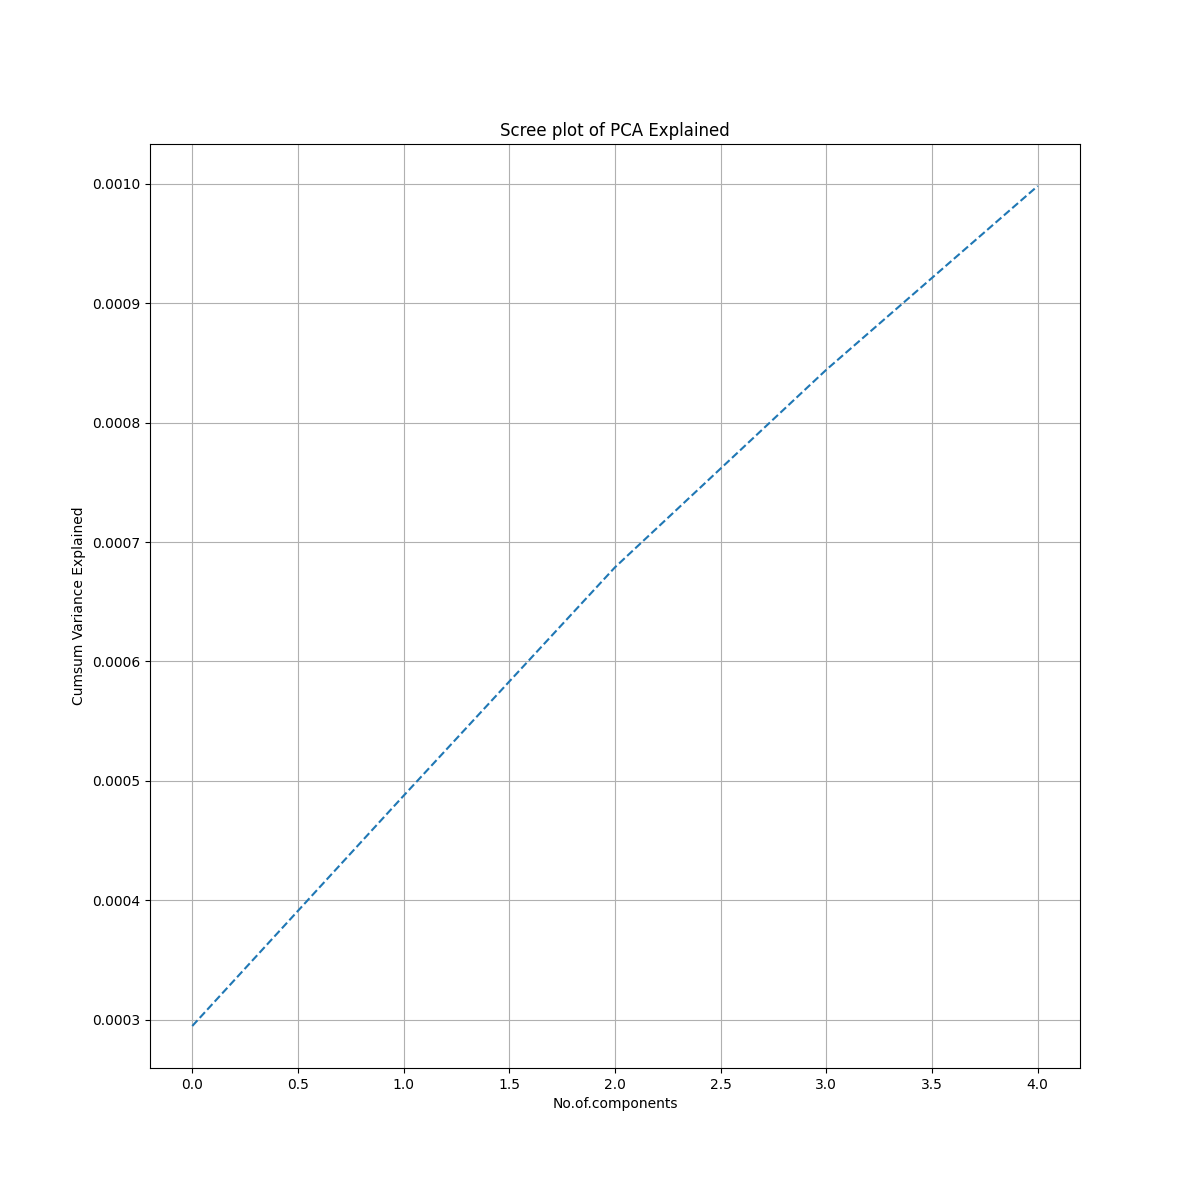
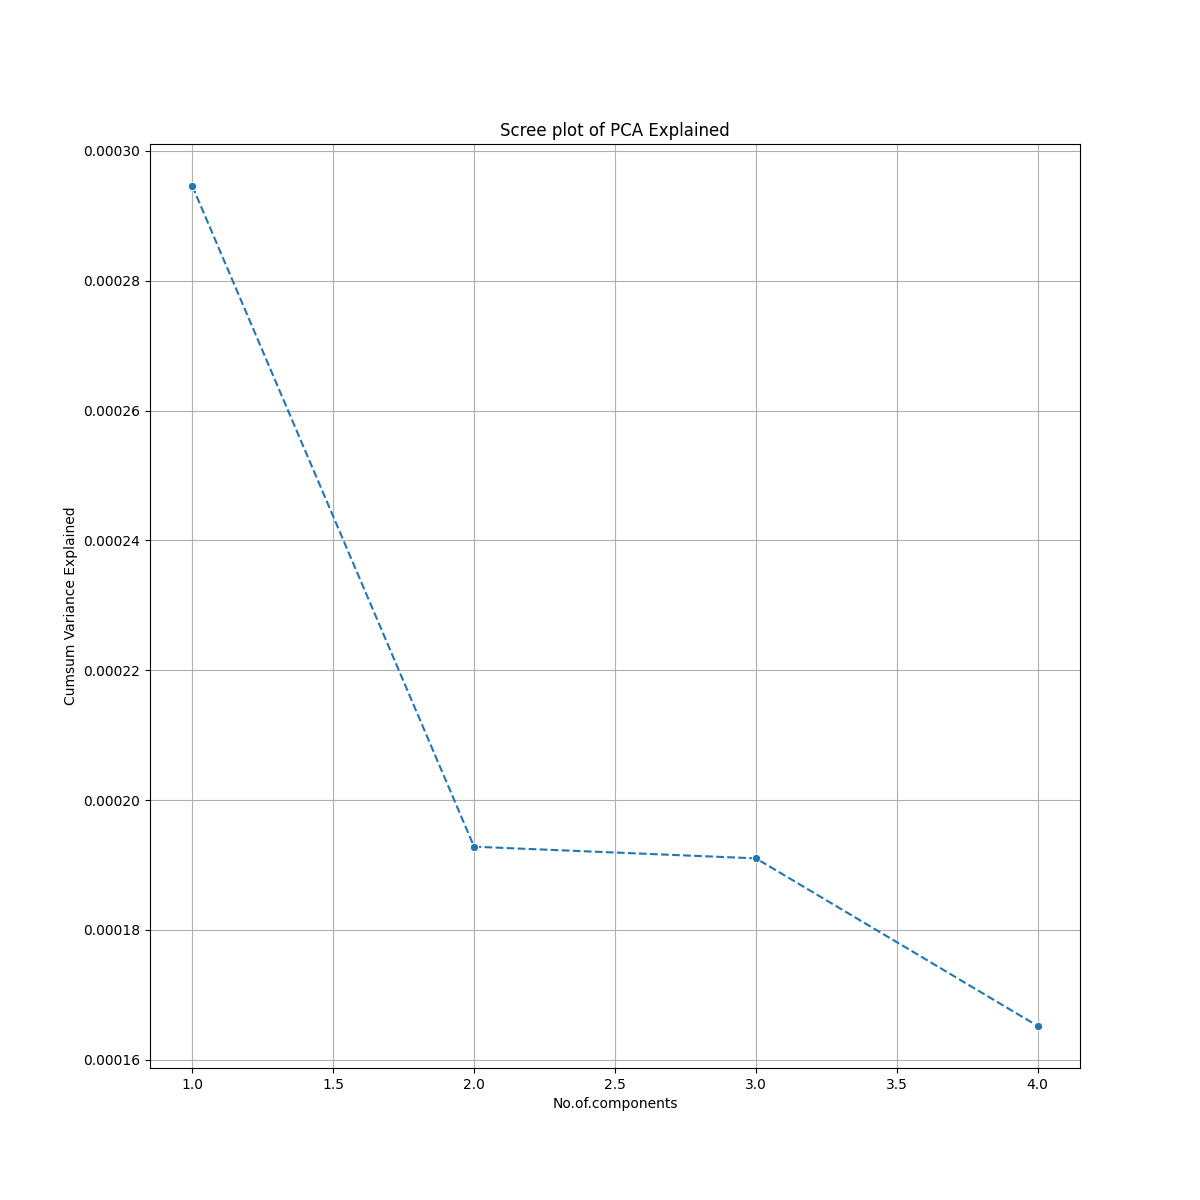
Experimented PCA with 4 components

diff --git a/visualizations/pca_plots.py b/visualizations/pca_plots.py
@@ -7,7 +7,12 @@ import numpy as np
 def pca_scree_plot(pca, save_as = "scree_plot.png"):
     
     plt.figure(figsize=(12,12))
-    sns.lineplot(np.cumsum(pca.explained_variance_ratio_), markers="o",linestyle= "--")
+    sns.lineplot(
+        x=range(1, len(pca.explained_variance_ratio_) + 1),
+        y=pca.explained_variance_ratio_,
+        marker="o",
+        linestyle="--"
+    )
     plt.title("Scree plot of PCA Explained")
     plt.xlabel("No.of.components")
     plt.ylabel("Cumsum Variance Explained")

diff --git a/App_files/dim_red.py b/App_files/dim_red.py
@@ -1,4 +1,5 @@
 import sys 
+from pathlib import Path
 sys.path.append(str(Path(__file__).resolve().parent.parent))
 
 from config.config import logger
@@ -7,8 +8,8 @@ import pandas as pd
 import numpy as np 
 from sklearn.decomposition import PCA 
 from sklearn.preprocessing import StandardScaler 
-from pathlib import Path
-from config import config 
+
+
 import yaml 
 import mlflow 
 from visualizations.pca_plots import pca_scree_plot
